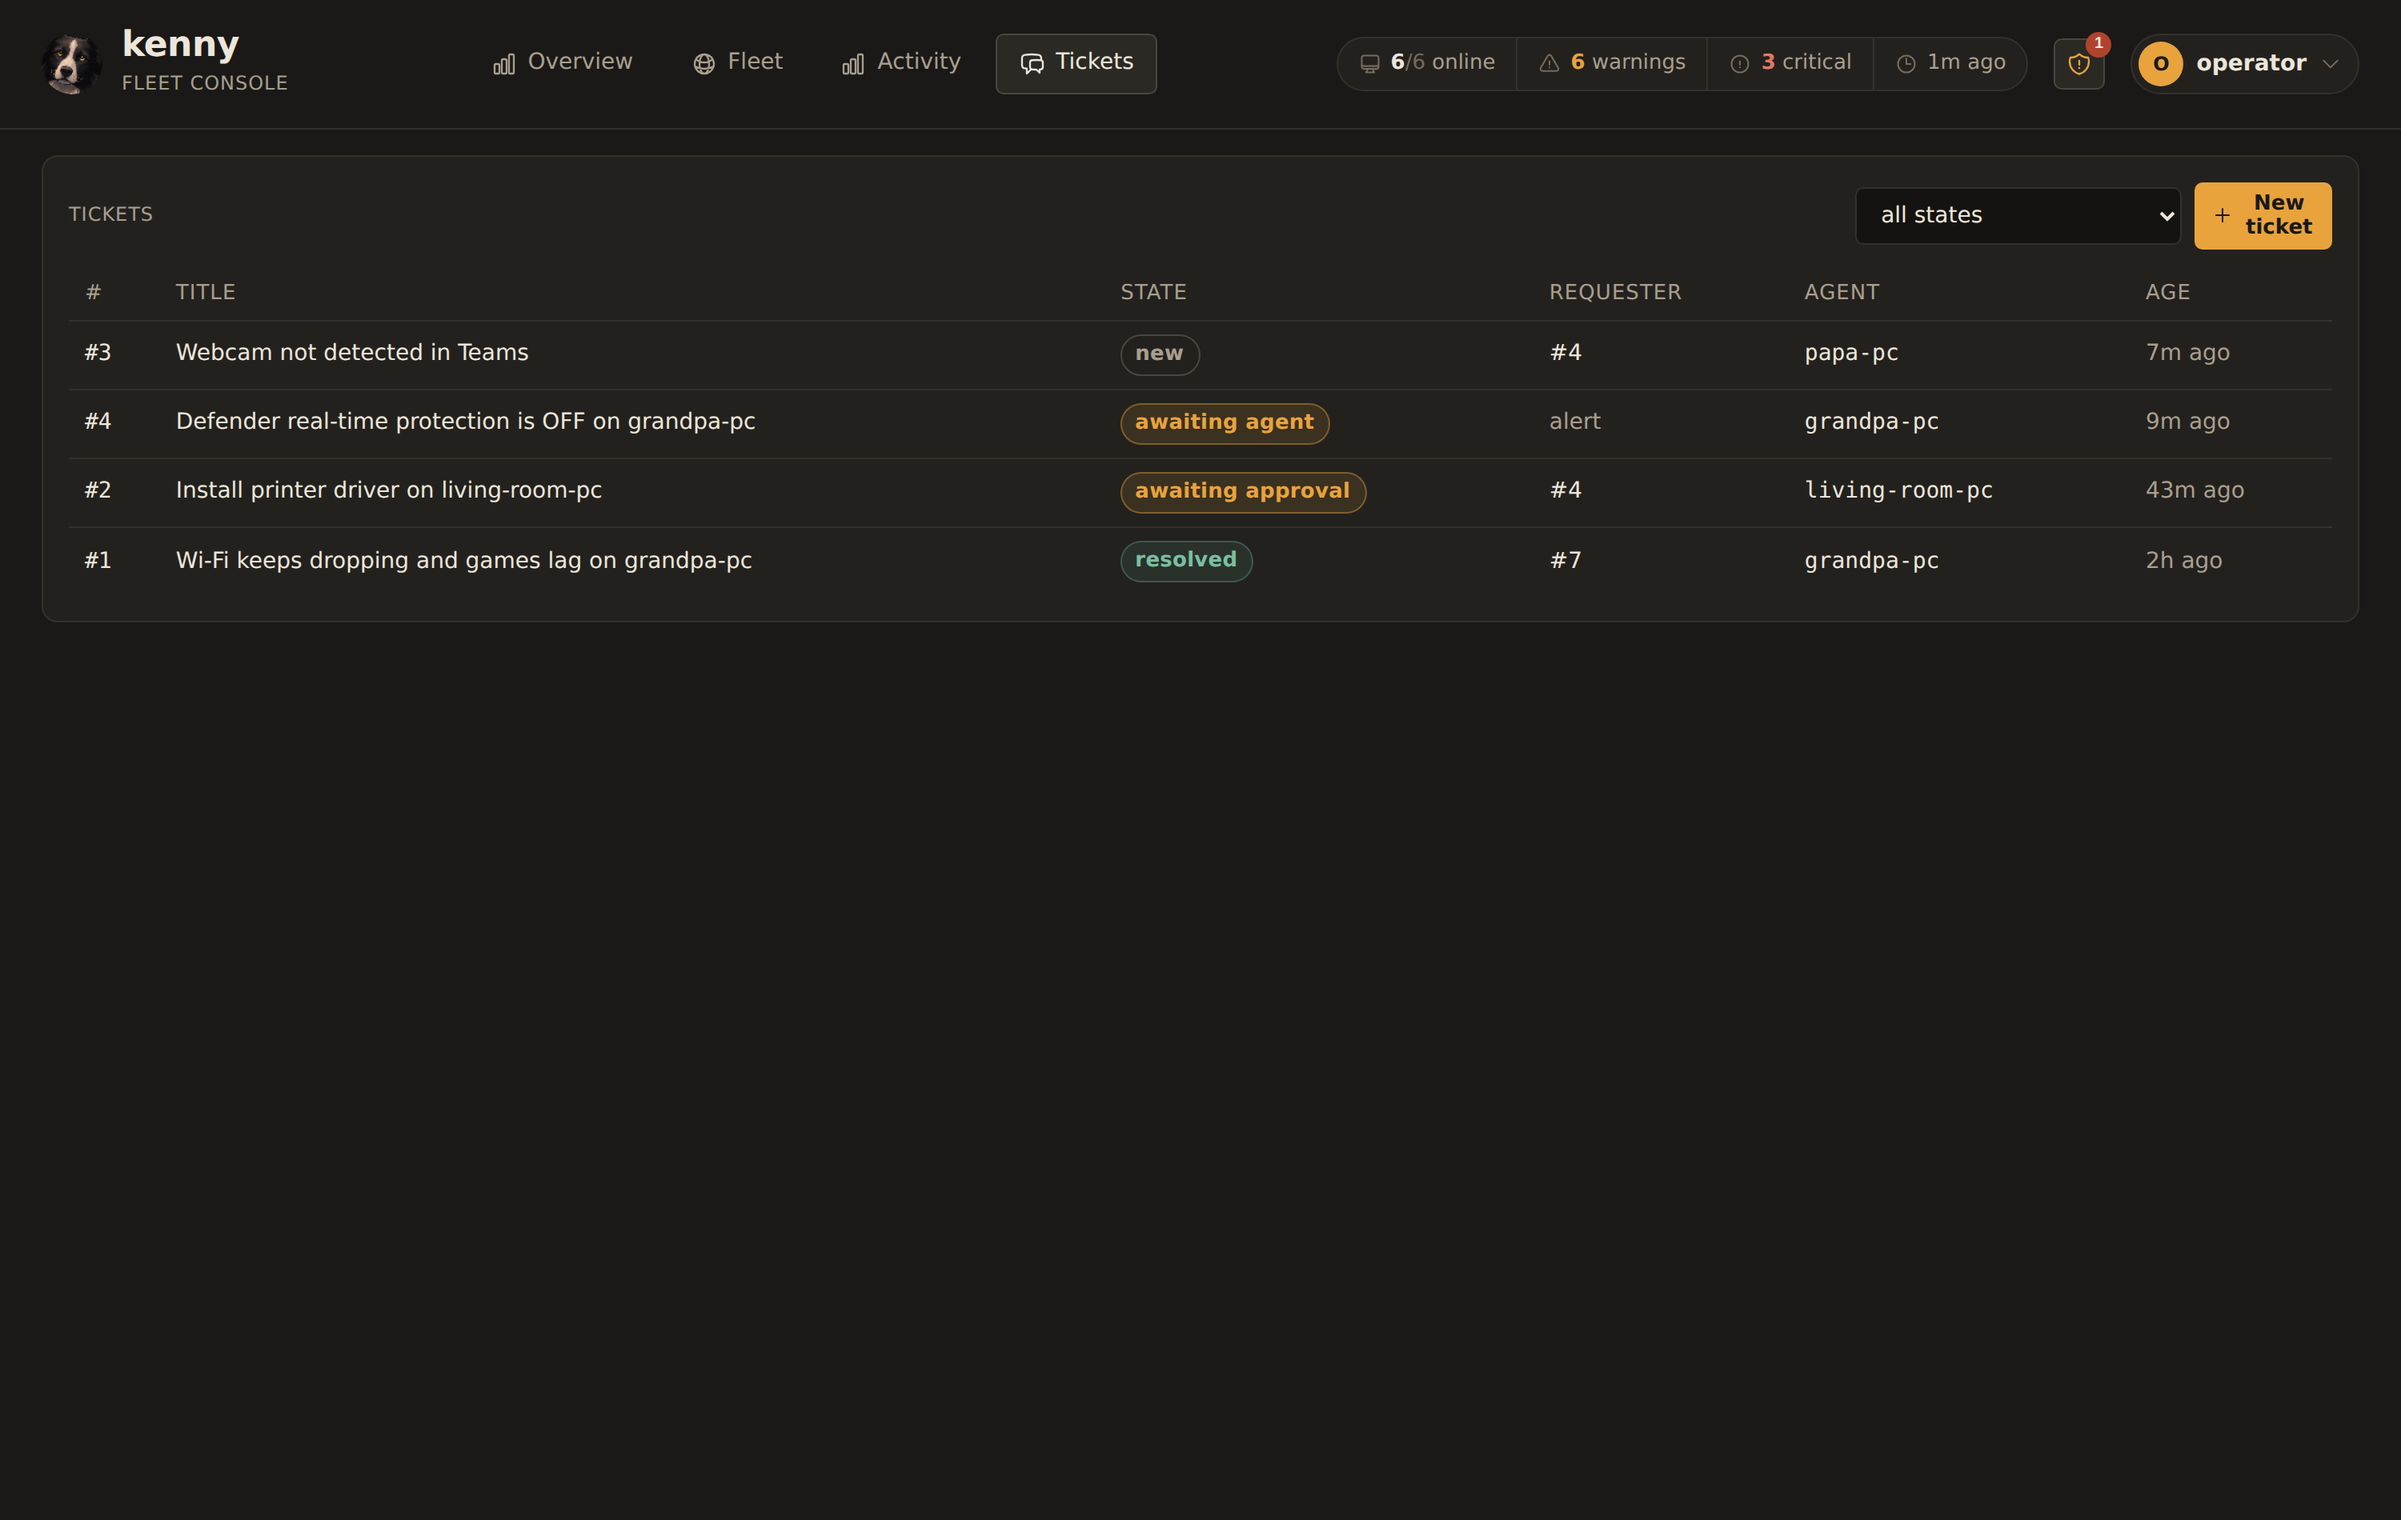
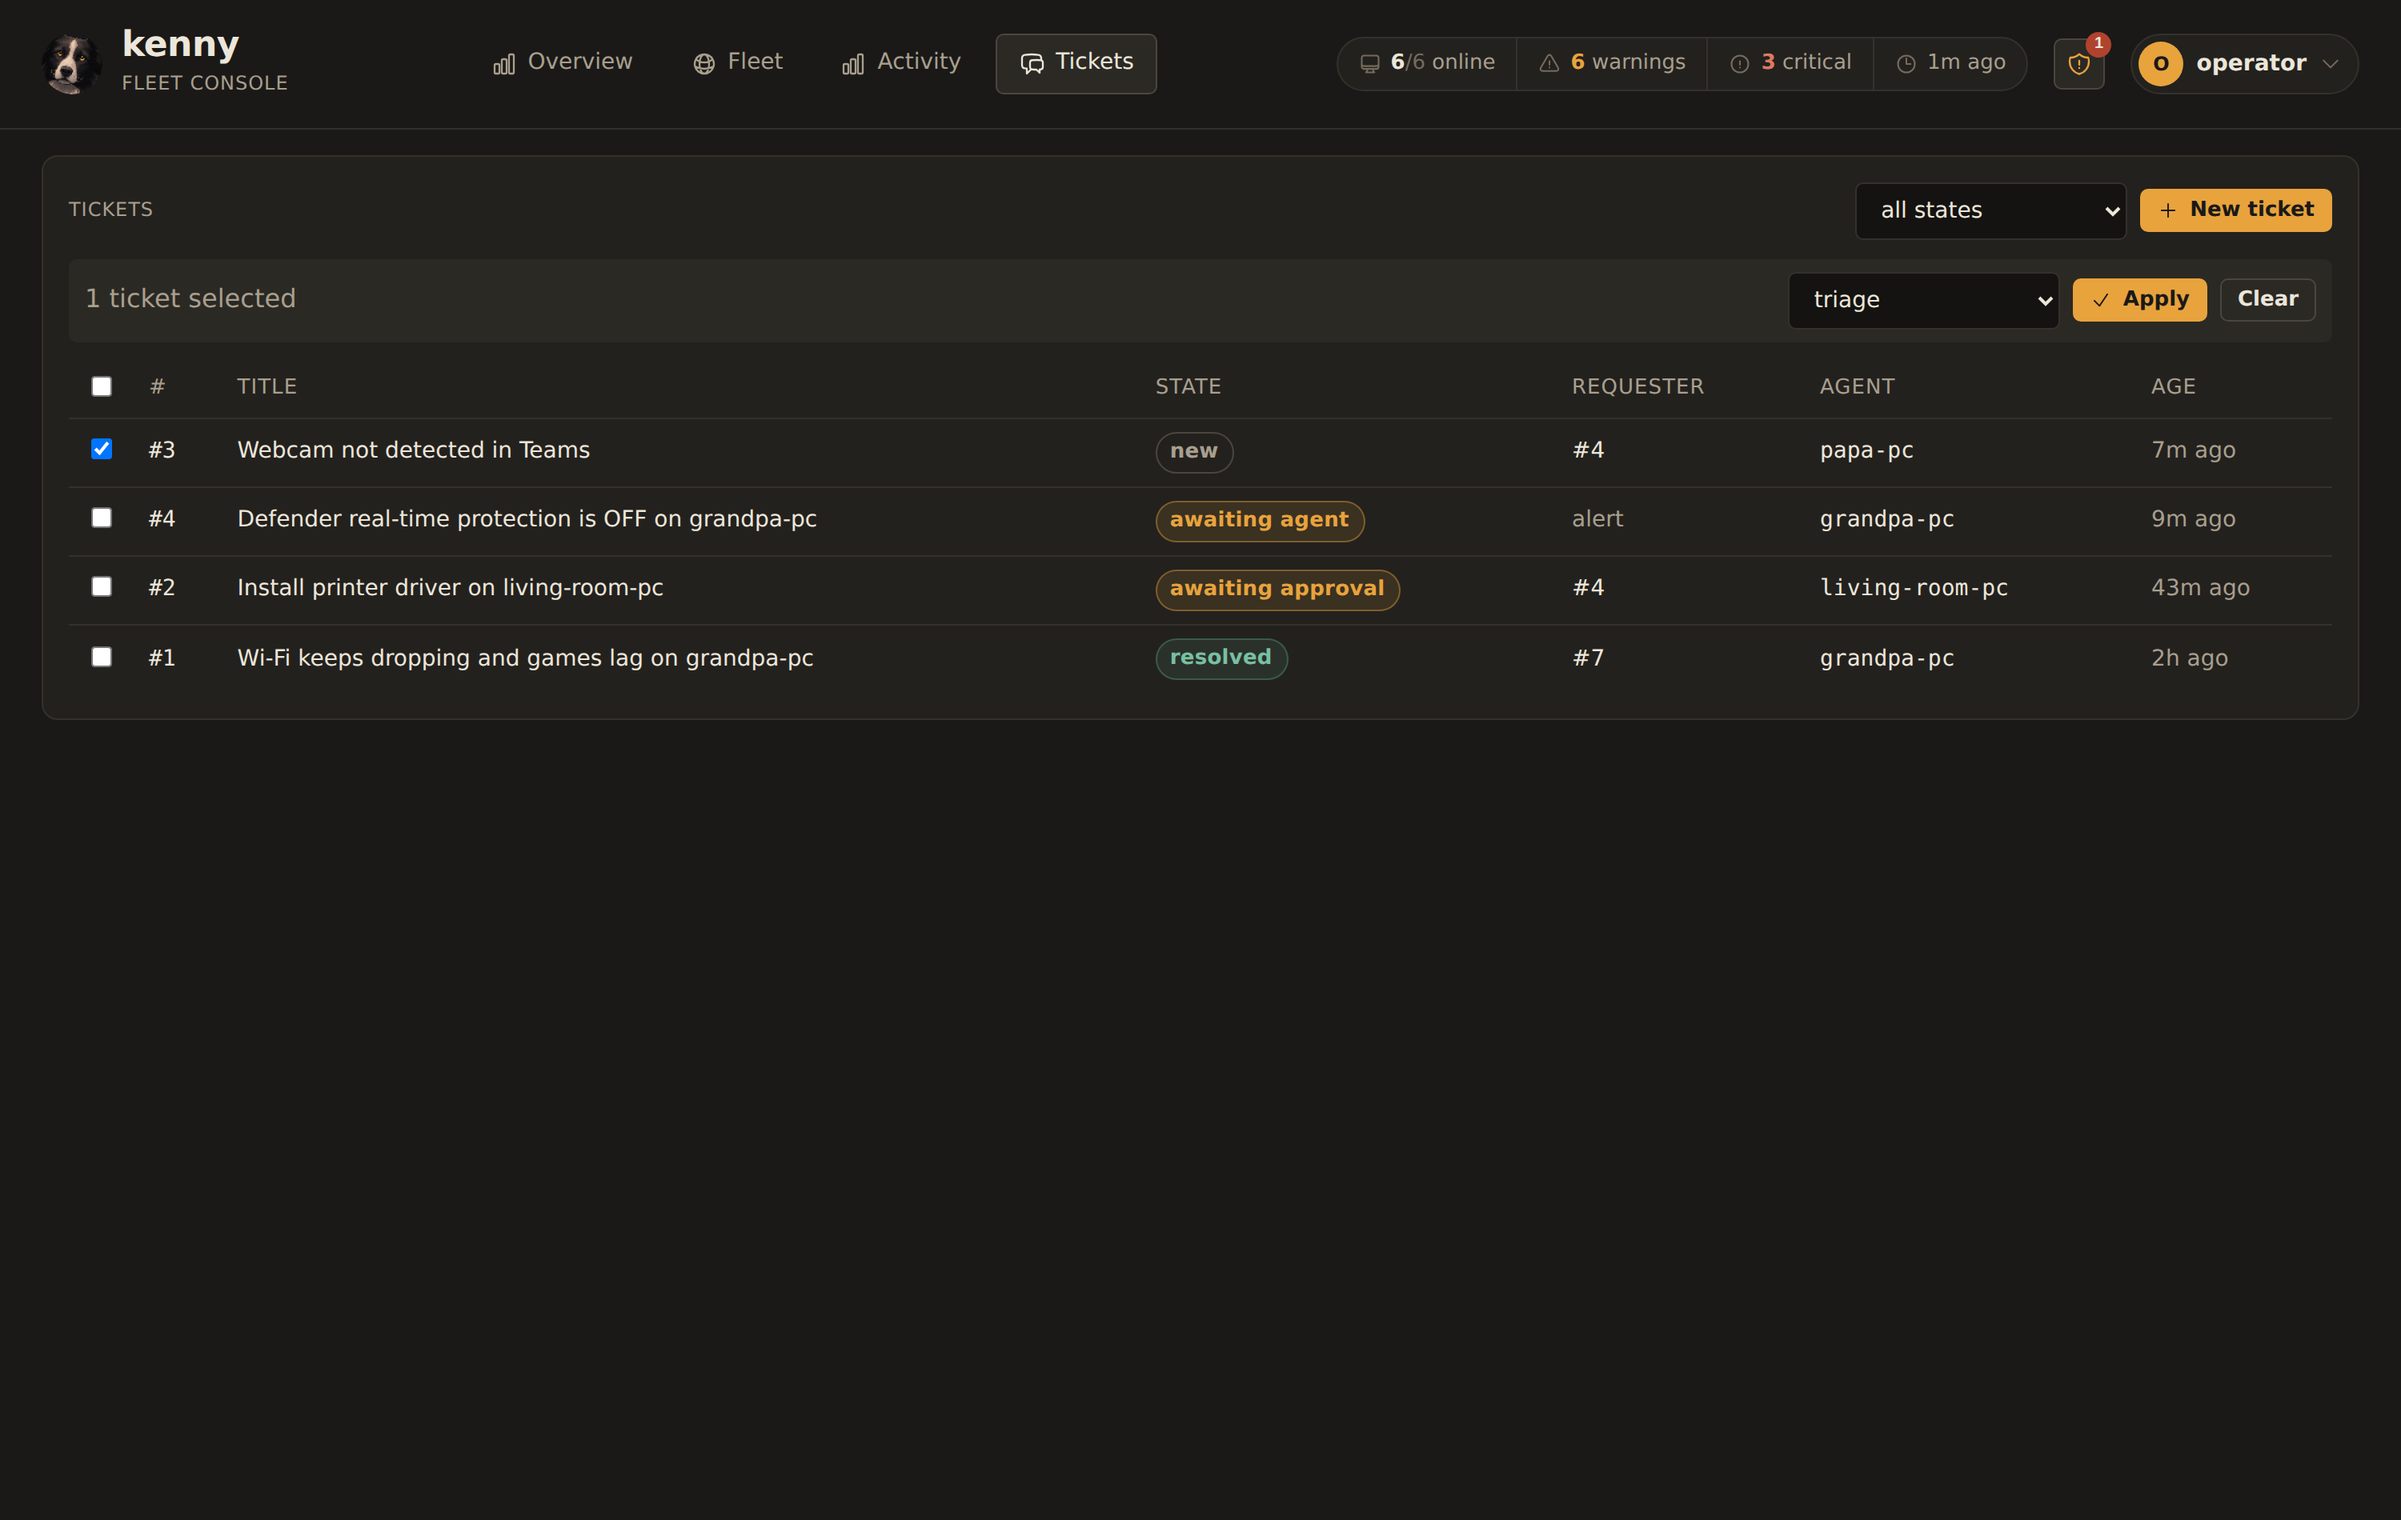
docs(dashboard): document ticket bulk actions, regenerate tickets screenshot
Follow-up to the ticket bulk-actions + New ticket button change (PR #198,
already merged): the doc-drift check flagged docs/dashboard.md and the
tickets.png figure as stale.

- Describe the per-row/select-all checkboxes and the bulk-action bar
  (state picker + Apply, operator+ only) in the Ticket list section.
- Give the bulk-action bar a stable #tk-bulk-bar id so the screenshot
  driver can wait on it.
- Update the "tickets" shot to select a row first so the bulk-action bar
  shows in the figure, and regenerate docs/assets/screenshots/tickets.png.

No ADR: pure UI-layout/doc reconciliation, no architectural change.

diff --git a/kenny-server/kenny_server/webui/index.html b/kenny-server/kenny_server/webui/index.html
@@ -1989,7 +1989,7 @@
         `<option value="${s}" ${s === filter ? "selected" : ""}>${esc(ticketStateLabel(s))}</option>`).join("");
       const bulkStateOptions = TICKET_BULK_TARGET_STATES.map(s =>
         `<option value="${s}">${esc(ticketStateLabel(s))}</option>`).join("");
-      const bulkBar = isOp && sel.size > 0 ? `<div class="k-row"
+      const bulkBar = isOp && sel.size > 0 ? `<div class="k-row" id="tk-bulk-bar"
           style="justify-content:space-between;align-items:center;flex-wrap:wrap;gap:8px;margin-bottom:12px;padding:8px 10px;background:var(--surface-raised);border-radius:var(--radius-sm)">
           <span class="k-muted">${sel.size} ticket${sel.size === 1 ? "" : "s"} selected</span>
           <div class="k-row" style="gap:8px">

diff --git a/scripts/screenshots/shots.py b/scripts/screenshots/shots.py
@@ -271,7 +271,14 @@ MANIFEST: list[Shot] = [
         name="tickets",
         hash="#/tickets",
         mode="full_page",
-        actions=[{"wait_for": "table.kacc-tbl tbody tr"}, {"sleep": 300}],
+        # Check the first row so the bulk-action bar (state picker + Apply,
+        # operator+ only) renders in the figure alongside the list itself.
+        actions=[
+            {"wait_for": "table.kacc-tbl tbody tr"},
+            {"eval": "document.querySelector('table.kacc-tbl tbody tr td input[type=checkbox]').click()"},
+            {"wait_for": "#tk-bulk-bar"},
+            {"sleep": 300},
+        ],
     ),
     Shot(
         name="ticket-detail",

diff --git a/docs/dashboard.md b/docs/dashboard.md
@@ -402,8 +402,8 @@ user-facing view.
 ### Ticket list
 
 <figure markdown>
-  ![The Tickets list, filterable by state.](assets/screenshots/tickets.png)
-  <figcaption>The Tickets list: number, title, state, requester, target PC and age, filterable by state.</figcaption>
+  ![The Tickets list, filterable by state and with a row selected for a bulk state change.](assets/screenshots/tickets.png)
+  <figcaption>The Tickets list: number, title, state, requester, target PC and age, filterable by state; operator+ also gets a selection checkbox per row for bulk state changes.</figcaption>
 </figure>
 
 One row per ticket — number, title, a **state pill**, the requester (or "alert" for a
@@ -411,6 +411,15 @@ ticket with no owner), the target PC, and its age — sorted newest-first. The *
 filter** narrows to one lifecycle state; **New ticket** opens one directly from the
 dashboard (title + optional details), which lands exactly like a Discord-opened one except
 it has no thread attached.
+
+For an operator+, each row carries a **selection checkbox** (plus a "select all" in the
+header, scoped to whatever the state filter currently shows). Selecting one or more
+tickets opens a **bulk-action bar** above the table: pick a target state and **Apply** to
+drive every selected ticket through the same [`/transition`](itsm.md) call the single-ticket
+actions use. A ticket for which that transition isn't legal from its current state (see the
+lifecycle in [Tickets & the Discord bot](itsm.md)) is skipped rather than failing the whole
+batch, and the result ("N updated, M failed") shows as a toast. `new` never appears as a
+bulk target — no transition ever lands on it.
 
 ### Ticket detail
 
